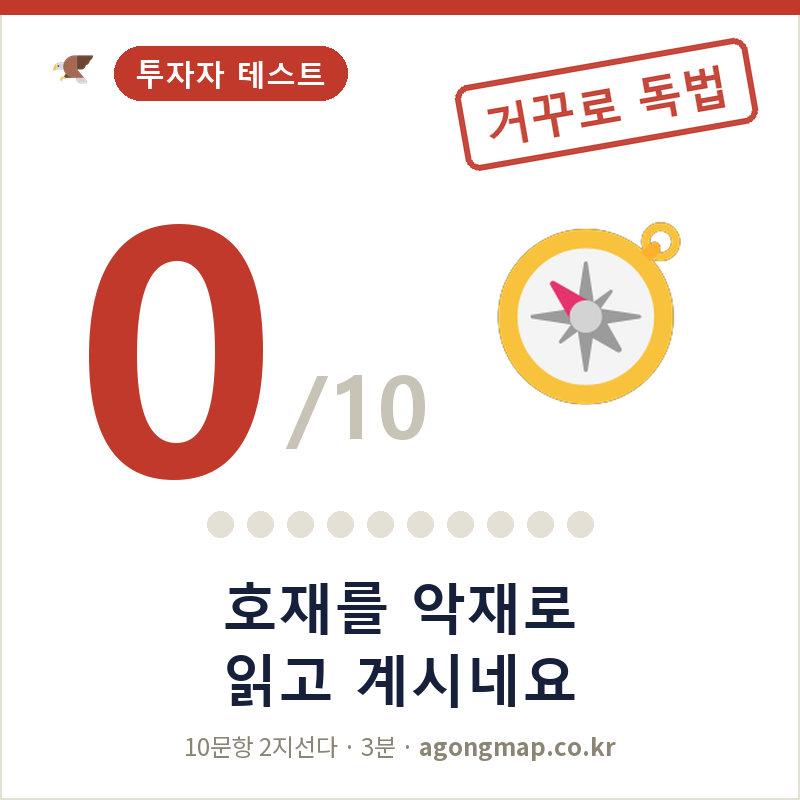
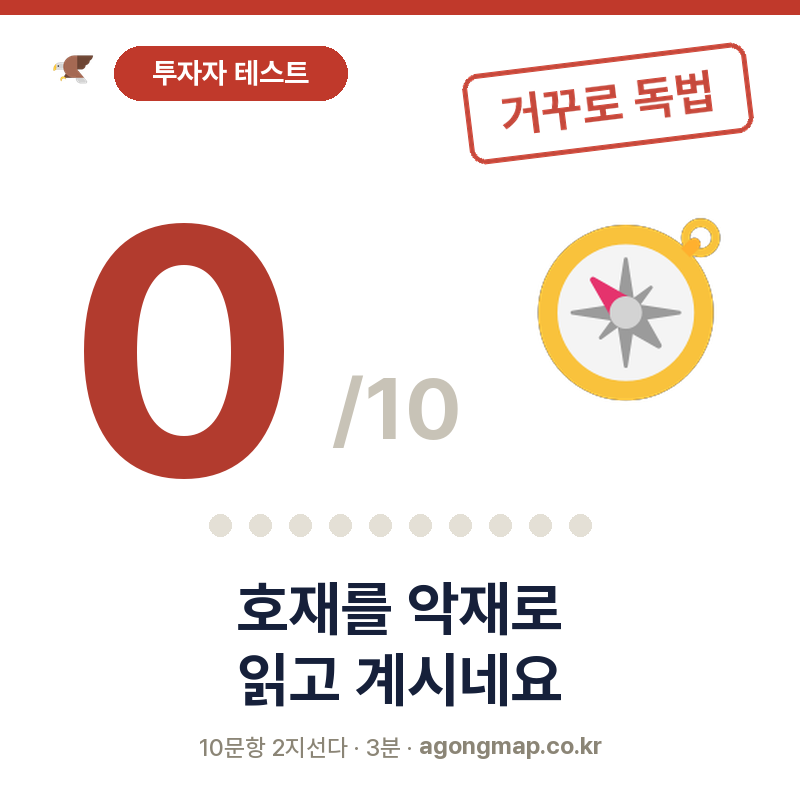
투자자 카드 생성 스크립트 신설 + 11장 Pretendard 재생성
- tools/make_investor_cards.py 신설: 그동안 스크립트 없이 산출물만 있던 카드를 코드로 복원
  (상단 바·독수리·알약 헤더·기울어진 도장·대형 점수·점 미터·2줄 문구·푸터)
  기존 카드에서 레이아웃·색을 실측해 재현, 문구 5티어는 원본 그대로 유지
- 이모지는 Windows Segoe UI Emoji 렌더 의존이었음 → 기존 카드에서 추출해
  art_raw/emoji/ 에 PNG 자산으로 번들(92KB, 5종+독수리). OS 폰트 의존 완전 제거
- 폰트는 make_beginner_cards.noto 공유(번들 Pretendard) — 카드 서체 전면 통일 완료
- 검증: 11장 800x800 유효·손상 0, 원본과 나란히 시각 대조(도장 303→292px 등 오차 5% 내)

diff --git a/tools/make_investor_cards.py b/tools/make_investor_cards.py
@@ -1,0 +1,165 @@
+# -*- coding: utf-8 -*-
+"""투자자 테스트 점수별 공유 카드 11장 (800x800).
+
+문구는 index.html QUIZSETS.investor와 톤을 맞춘다. 둘 중 하나를 고치면 같이 볼 것.
+이모지는 폰트(OS)에 의존하지 않도록 art_raw/emoji/ 에 PNG로 번들해 합성한다.
+
+사용:  python tools/make_investor_cards.py
+"""
+import os, sys
+from PIL import Image, ImageDraw
+
+sys.path.insert(0, os.path.dirname(os.path.abspath(__file__)))
+from make_beginner_cards import noto  # noqa: E402  (번들 폰트 로더 공유)
+
+W = H = 800
+BG = (255, 255, 255)
+INK = (22, 32, 58)
+MUTED = (139, 133, 118)
+SLASH = (200, 195, 183)
+METER_ON = (31, 138, 112)
+METER_OFF = (228, 224, 214)
+BRAND = (192, 57, 43)          # 상단 바 · 헤더 알약
+
+# 점수별 숫자 색 (0~10) — beginner/calc 카드와 같은 팔레트
+SCORE_COLORS = [
+    (178, 59, 46), (178, 59, 46), (192, 57, 43), (192, 57, 43), (207, 91, 42),
+    (217, 154, 0), (217, 154, 0), (61, 154, 99), (31, 138, 112), (184, 134, 47),
+    (184, 134, 47),
+]
+
+# 티어별 (도장 문구, 도장 색, 문구 2줄, 이모지 파일)
+TIERS = [
+    (range(0, 3),  '거꾸로 독법', (197, 73, 60),   ['호재를 악재로', '읽고 계시네요'],       'compass'),
+    (range(3, 5),  '재도전 요망', (197, 73, 60),   ['부동산 뉴스,', '헤드라인만 보셨죠?'],   'sweat'),
+    (range(5, 7),  '반쯤 고수',   (220, 162, 20),  ['감은 있어요.', '계약은 아직 이르지만'], 'moon'),
+    (range(7, 9),  '고수 인정',   (49, 146, 122),  ['머릿속엔 이미', '다주택자시네요'],      'cool'),
+    (range(9, 11), '업자 의심',   (197, 73, 60),   ['이걸 다 맞히네...', '혹시 업자세요?'],   'trophy'),
+]
+
+ART = os.path.join(os.path.dirname(os.path.dirname(os.path.abspath(__file__))), 'art_raw', 'emoji')
+
+
+def tier_of(score):
+    for rng, stamp, col, lines, emo in TIERS:
+        if score in rng:
+            return stamp, col, lines, emo
+    raise ValueError(score)
+
+
+def fit_h(text, target_h, weight='Bold', lo=8, hi=520):
+    """글자 높이가 target_h가 되는 폰트 크기를 이분 탐색."""
+    best = noto(lo, weight)
+    while lo <= hi:
+        mid = (lo + hi) // 2
+        f = noto(mid, weight)
+        b = f.getbbox(text)
+        h = b[3] - b[1]
+        if h <= target_h:
+            best = f
+            lo = mid + 1
+        else:
+            hi = mid - 1
+    return best
+
+
+def draw_centered(d, cx, cy, text, font, fill):
+    b = d.textbbox((0, 0), text, font=font)
+    d.text((cx - (b[2] - b[0]) / 2 - b[0], cy - (b[3] - b[1]) / 2 - b[1]), text, font=font, fill=fill)
+
+
+def stamp_img(text, color):
+    """살짝 기울어진 테두리 도장."""
+    f = fit_h(text, 43, 'Bold')
+    tmp = Image.new('RGBA', (10, 10)); td = ImageDraw.Draw(tmp)
+    b = td.textbbox((0, 0), text, font=f)
+    tw, th = b[2] - b[0], b[3] - b[1]
+    padx, pady = 37, 26
+    bw, bh = tw + padx * 2, th + pady * 2
+    im = Image.new('RGBA', (bw, bh), (0, 0, 0, 0))
+    d = ImageDraw.Draw(im)
+    d.rounded_rectangle([2, 2, bw - 3, bh - 3], radius=16, outline=color + (255,), width=5)
+    d.text((padx - b[0], pady - b[1]), text, font=f, fill=color + (255,))
+    return im.rotate(7, expand=True, resample=Image.BICUBIC)
+
+
+def make_card(score, out):
+    stamp, scol, lines, emo = tier_of(score)
+    im = Image.new('RGB', (W, H), BG)
+    d = ImageDraw.Draw(im)
+
+    # 상단 바
+    d.rectangle([0, 0, W, 14], fill=BRAND)
+
+    # 헤더: 독수리 + 알약
+    eagle = os.path.join(ART, 'eagle.png')
+    if os.path.exists(eagle):
+        e = Image.open(eagle).convert('RGBA')
+        im.paste(e, (49, 51), e)
+    d.rounded_rectangle([114, 46, 347, 100], radius=27, fill=BRAND)
+    draw_centered(d, (114 + 347) // 2, (46 + 100) // 2, '투자자 테스트', fit_h('투자자 테스트', 26, 'Bold'), (255, 255, 255))
+
+    # 도장 (우상단)
+    st = stamp_img(stamp, scol)
+    im.paste(st, (int(608 - st.width / 2), int(104 - st.height / 2)), st)
+
+    # 숫자 + /10  (아래 정렬, 그룹 중심 x≈265)
+    num = str(score)
+    fnum = fit_h(num, 256, 'Bold')
+    fsl = fit_h('/10', 73, 'Bold')
+    bn = d.textbbox((0, 0), num, font=fnum)
+    bs = d.textbbox((0, 0), '/10', font=fsl)
+    nw, sw = bn[2] - bn[0], bs[2] - bs[0]
+    gap = 32
+    gx = 265 - (nw + gap + sw) / 2            # 그룹 왼쪽
+    d.text((gx - bn[0], 479 - bn[3]), num, font=fnum, fill=SCORE_COLORS[score])
+    d.text((gx + nw + gap - bs[0], 448 - bs[3]), '/10', font=fsl, fill=SLASH)
+
+    # 이모지 (숫자 오른쪽)
+    p = os.path.join(ART, '%s.png' % emo)
+    if os.path.exists(p):
+        e = Image.open(p).convert('RGBA')
+        ex = int(gx + nw + gap + sw + 70)
+        im.paste(e, (ex, int(310 - e.height / 2)), e)
+
+    # 점 미터 (10개)
+    r, sp = 11, 40
+    x0 = 400 - (9 * sp) / 2
+    for i in range(10):
+        cx = x0 + i * sp
+        d.ellipse([cx - r, 525 - r, cx + r, 525 + r], fill=METER_ON if i < score else METER_OFF)
+
+    # 문구 2줄
+    f1 = fit_h(lines[0], 54, 'Bold')
+    if d.textbbox((0, 0), lines[0], font=f1)[2] > 700:
+        f1 = fit_h(lines[0], 44, 'Bold')
+    draw_centered(d, 400, 609, lines[0], f1, INK)
+    f2 = fit_h(lines[1], 54, 'Bold')
+    if d.textbbox((0, 0), lines[1], font=f2)[2] > 700:
+        f2 = fit_h(lines[1], 44, 'Bold')
+    draw_centered(d, 400, 680, lines[1], f2, INK)
+
+    # 푸터
+    full = '10문항 2지선다 · 3분 · agongmap.co.kr'
+    ffoot = fit_h(full, 25, 'Medium')
+    left, right = '10문항 2지선다 · 3분 · ', 'agongmap.co.kr'
+    fb = noto(ffoot.size, 'Bold')
+    lw = d.textbbox((0, 0), left, font=ffoot)[2] - d.textbbox((0, 0), left, font=ffoot)[0]
+    rw = d.textbbox((0, 0), right, font=fb)[2] - d.textbbox((0, 0), right, font=fb)[0]
+    sx = 400 - (lw + rw) / 2
+    bl = d.textbbox((0, 0), left, font=ffoot)
+    d.text((sx - bl[0], 748 - (bl[3] - bl[1]) / 2 - bl[1]), left, font=ffoot, fill=MUTED)
+    br = d.textbbox((0, 0), right, font=fb)
+    d.text((sx + lw - br[0], 748 - (br[3] - br[1]) / 2 - br[1]), right, font=fb, fill=MUTED)
+
+    im.save(out, 'PNG')
+    return True
+
+
+if __name__ == '__main__':
+    root = os.path.dirname(os.path.dirname(os.path.abspath(__file__)))
+    share = os.path.join(root, 'share')
+    os.makedirs(share, exist_ok=True)
+    for s in range(11):
+        make_card(s, os.path.join(share, 'investor-%d.png' % s))
+    print('11 cards written -> %s' % share)
